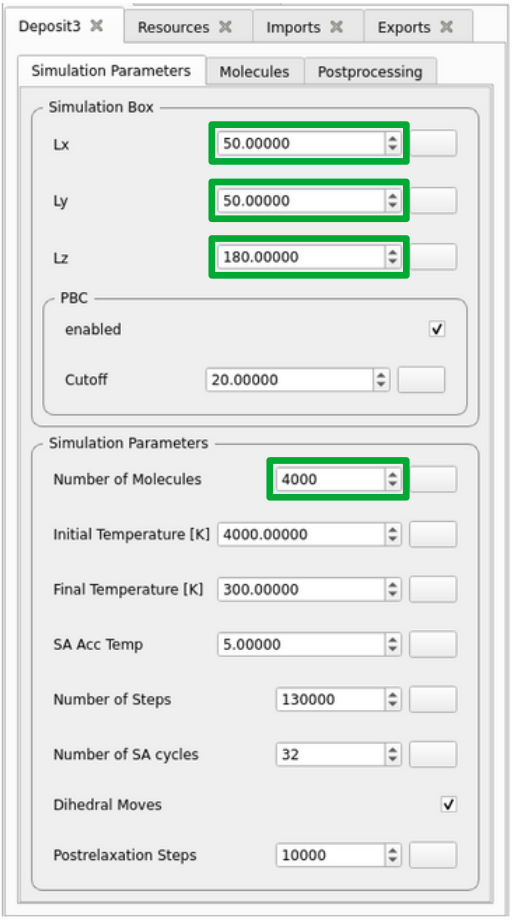
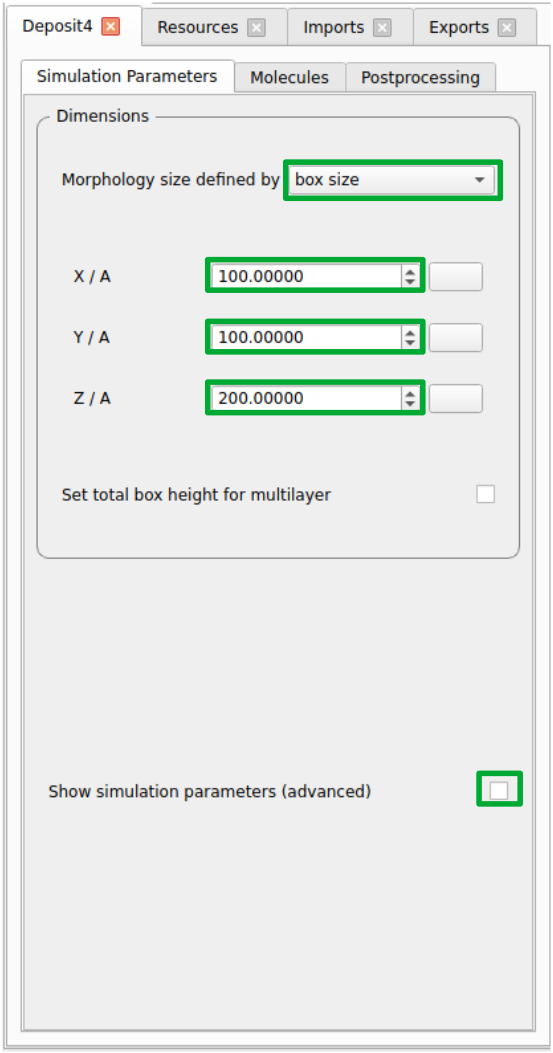
adapted to new deposit4 wano

Changed region(s): [[0.0, 0.0, 0.9981, 1.0], [0.0936, 0.9121, 0.3743, 0.9425], [0.1248, 0.2432, 0.2183, 0.2736]]

diff --git a/docs/source/getting_started/quick_start.rst b/docs/source/getting_started/quick_start.rst
@@ -121,7 +121,7 @@ d. Set Up Individual Modules
 
     2. **Deposit**
 
-        * Adjust the ``Simulation Parameters`` tab:
+        * Adjust the ``Simulation Parameters`` tab as indicated in the screenshots below. Note that for a standard production run, the preset simulation parameters can be used without adjustment.
 
         .. list-table::
            :widths: 50 50
